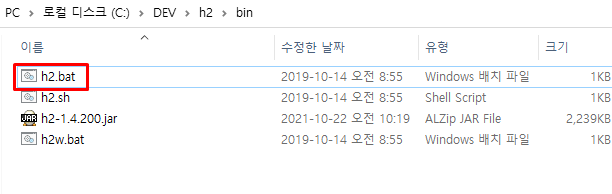
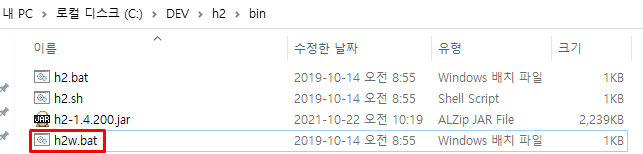
update Model1_Board.md

diff --git a/Web_Study/workspace/Model1_Board/README.md b/Web_Study/workspace/Model1_Board/README.md
@@ -17,27 +17,27 @@
 
 
 
-# 📖 목차
+# 📖 목차 <a id="index">
 
-1. [📖 프로젝트 환경](#📖-프로젝트-환경)
-1. [📖 프로젝트 구조](#📖-프로젝트-구조)
-1. [📖 H2 데이터베이스 세팅](#📖-h2-데이터베이스-세팅)
-1. [📖 필요 라이브러리](#📖-필요-라이브러리)
-1. [📖 소스코드 작성](#📖-소스코드-작성)
+1. [📖 프로젝트 환경](#1)
+1. [📖 프로젝트 구조](#2)
+1. [📖 H2 데이터베이스 세팅](#3)
+1. [📖 필요 라이브러리](#4)
+1. [📖 소스코드 작성 순서](#5)
 
 <br><br>
 
-# 📖 프로젝트 환경
+# 📖 프로젝트 환경 <a id="1">
 
-[목차로 이동](#📖-목차)
+[목차로 이동](#index)
 
 
 - IDE: Eclipse
 - Database: H2
 
-# 📖 프로젝트 구조
+# 📖 프로젝트 구조 <a id="2">
 
-[목차로 이동](#📖-목차)
+[목차로 이동](#index)
 
 <br>
 
@@ -86,9 +86,9 @@ File - New - Dynamic Web Project
 
 <br><br>
 
-# 📖 H2 데이터베이스 세팅
+# 📖 H2 데이터베이스 세팅 <a id="3">
 
-[목차로 이동](#📖-목차)
+[목차로 이동](#index)
 
 
 ## ♟ H2 데이터베이스 설치하기
@@ -104,7 +104,7 @@ File - New - Dynamic Web Project
 
 ## ♟ H2 브라우저에서 실행하기
 
-1. h2.bat 실행
+1. h2w.bat 실행
 
     ![](md-images/2021-10-23-21-41-14.png)
 
@@ -178,9 +178,9 @@ File - New - Dynamic Web Project
 
 <br><br>
 
-# 📖 필요 라이브러리
+# 📖 필요 라이브러리 <a id="4">
 
-[목차로 이동](#📖-목차)
+[목차로 이동](#index)
 
 
 ## ♟ WebContent/lib 폴더에 jar 파일들 넣기
@@ -195,11 +195,11 @@ File - New - Dynamic Web Project
     
 <br><br>
 
-# 📖 소스코드 작성
+# 📖 소스코드 작성 순서 <a id="5">
 
-[목차로 이동](#📖-목차)
+[목차로 이동](#index)
 
-## ♟ java 파일 작성순서
+## ♟ java 파일 작성 순서
 
 1. UwerDO
 1. BoardDO
@@ -208,7 +208,7 @@ File - New - Dynamic Web Project
 
 <br>
 
-## ♟ jsp 파일 작성순서
+## ♟ jsp 파일 작성 순서
 
 1. login
 1. error
